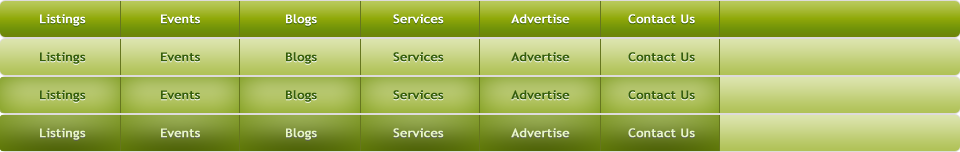
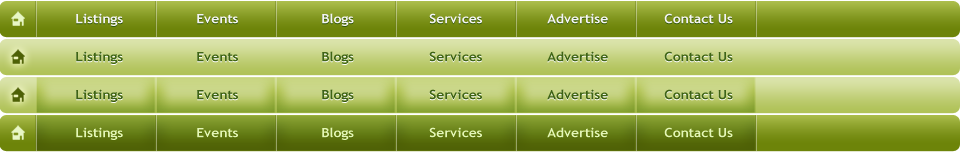
modified files and looks

diff --git a/cebudir/css/main.css b/cebudir/css/main.css
@@ -82,7 +82,7 @@ h6 { font-size: 10px; }
 }
 #footer-urls li { float: right; margin-left: 20px; }
 #footer-urls li a { font-size: 13px; font-weight: lighter; }
-
+/*
 #home {
 	height: 29px; width: 35px;
 	margin-left: 6px;
@@ -96,11 +96,33 @@ h6 { font-size: 10px; }
 #home:hover {
 	background: url(../images/home-sel.gif) top center no-repeat;
 	border: 1px solid #97ab40;
-}
+}*/
 ul#sitemaps { padding: 10px 0px; }
 ul#sitemaps li { 
 	width: 18%; float: left; float: left; padding-left: 10px; 
 }
+/*** SEARCH ***/
+#search { margin-top: 10px; text-align: left; }
+#searchb {
+	background: url(../images/search.png) left top no-repeat;
+	height: 25px; width: 425px;
+	border: 1px solid #CCCCCC;
+	border-right: none;
+	font-size: 13px;
+	text-indent: 5px;
+	color: #666;
+}
+#searchb:focus { background: url(../images/search.png) left bottom no-repeat; }
+#searchb_field { margin-top: 0px; width: 370px; background: none; border: none; color: #999999; }
+#searchsub {
+	background: url(../images/search.png) right top no-repeat;
+	width: 50px; height: 25px;
+	border: none;
+	border-right: 1px solid #CCCCCC;
+	padding: 0px;
+}
+#searchsub:active { background: url(../images/search.png) right bottom no-repeat; }
+
 /***  CD-CONTENT ***/
 #cd-content h1, #cd-content h2 { color: #6D8309; }
 #cd-content h3, #cd-content h4,
@@ -235,33 +257,36 @@ ul#sitemaps li {
 #cd-navigation ul li a { display: block; border: none; height: 38px; width: 120px; }
 
 /** NAVIGATION ITEMS **/
-#listing  { background: url(../images/navmenu.png) 0px 0 no-repeat; }
-#event    { background: url(../images/navmenu.png) -120px 0 no-repeat; }
-#blog     { background: url(../images/navmenu.png) -240px 0 no-repeat; }
-#services { background: url(../images/navmenu.png) -360px 0 no-repeat; }
-#advertise{ background: url(../images/navmenu.png) -480px 0 no-repeat; }
-#contact  { background: url(../images/navmenu.png) -600px 0 no-repeat; }
+#home     { background: url(../images/navmenu.png) 0px 0 no-repeat; width: 36px; }
+#listing  { background: url(../images/navmenu.png) -36px 0 no-repeat; }
+#event    { background: url(../images/navmenu.png) -156px 0 no-repeat; }
+#blog     { background: url(../images/navmenu.png) -276px 0 no-repeat; }
+#services { background: url(../images/navmenu.png) -396px 0 no-repeat; }
+#advertise{ background: url(../images/navmenu.png) -516px 0 no-repeat; }
+#contact  { background: url(../images/navmenu.png) -636px 0 no-repeat; }
 /** HOVER STATE **/
-#listing:hover  { background: url(../images/navmenu.png) 0px -38px no-repeat; }
-#event:hover    { background: url(../images/navmenu.png) -120px -38px no-repeat; }
-#blog:hover     { background: url(../images/navmenu.png) -240px -38px no-repeat; }
-#services:hover { background: url(../images/navmenu.png) -360px -38px no-repeat; }
-#advertise:hover{ background: url(../images/navmenu.png) -480px -38px no-repeat; }
-#contact:hover  { background: url(../images/navmenu.png) -600px -38px no-repeat; }
+#home:hover     { background: url(../images/navmenu.png) 0px -38px no-repeat; }
+#listing:hover  { background: url(../images/navmenu.png) -36px -38px no-repeat; }
+#event:hover    { background: url(../images/navmenu.png) -156px -38px no-repeat; }
+#blog:hover     { background: url(../images/navmenu.png) -276px -38px no-repeat; }
+#services:hover { background: url(../images/navmenu.png) -396px -38px no-repeat; }
+#advertise:hover{ background: url(../images/navmenu.png) -516px -38px no-repeat; }
+#contact:hover  { background: url(../images/navmenu.png) -636px -38px no-repeat; }
 /** ACTIVE STATE **/
-#listing:active  { background: url(../images/navmenu.png) 1px -76px no-repeat; }
-#event:active    { background: url(../images/navmenu.png) -120px -76px no-repeat; }
-#blog:active     { background: url(../images/navmenu.png) -240px -76px no-repeat; }
-#services:active { background: url(../images/navmenu.png) -360px -76px no-repeat; }
-#advertise:active{ background: url(../images/navmenu.png) -480px -76px no-repeat; }
-#contact:active  { background: url(../images/navmenu.png) -600px -76px no-repeat; }
+#home:active     { background: url(../images/navmenu.png) 0px -76px no-repeat; }
+#listing:active  { background: url(../images/navmenu.png) -36px -76px no-repeat; }
+#event:active    { background: url(../images/navmenu.png) -156px -76px no-repeat; }
+#blog:active     { background: url(../images/navmenu.png) -276px -76px no-repeat; }
+#services:active { background: url(../images/navmenu.png) -396px -76px no-repeat; }
+#advertise:active{ background: url(../images/navmenu.png) -516px -76px no-repeat; }
+#contact:active  { background: url(../images/navmenu.png) -636px -76px no-repeat; }
 /** ACTIVE STATE **/
-#listing-sel  { background: url(../images/navmenu.png) 1px -114px no-repeat; width: 120px; }
-#event-sel    { background: url(../images/navmenu.png) -120px -114px no-repeat; }
-#blog-sel     { background: url(../images/navmenu.png) -240px -114px no-repeat; }
-#services-sel { background: url(../images/navmenu.png) -360px -114px no-repeat; }
-#advertise-sel{ background: url(../images/navmenu.png) -480px -114px no-repeat; }
-#contact-sel  { background: url(../images/navmenu.png) -600px -114px no-repeat; }
+#listing-sel  { background: url(../images/navmenu.png) -36px -114px no-repeat; width: 120px; }
+#event-sel    { background: url(../images/navmenu.png) -156px -114px no-repeat; }
+#blog-sel     { background: url(../images/navmenu.png) -276px -114px no-repeat; }
+#services-sel { background: url(../images/navmenu.png) -396px -114px no-repeat; }
+#advertise-sel{ background: url(../images/navmenu.png) -516px -114px no-repeat; }
+#contact-sel  { background: url(../images/navmenu.png) -636px -114px no-repeat; }
 
 #categories {
 	border-top:2px solid #dcdcdc; 
@@ -307,9 +332,9 @@ ul#sitemaps li {
 	text-transform:uppercase; 
 	font-size: 8px; 
 	font-weight: bold; 
-	font-family: Arial, Helvetica, sans-serif; 
+	/*font-family: Arial, Helvetica, sans-serif; */
 	padding: 2px 5px;
-	letter-spacing: .5px;
+	/*letter-spacing: .5px;*/
 }
 .listing-category a:hover { color: #FFFFFF; }
 

diff --git a/cebudir/application/views/cebudirectories/advertising.php b/cebudir/application/views/cebudirectories/advertising.php
@@ -3,16 +3,16 @@
 <h5 style="padding-left: 0px;">Sponsored</h5>
 
 <div id="ads">
-    <h5><a href="">Cheap, Fast and Reliable Web Hosting</a></h5>
+    <h5><a href="http://hostfortes.com/" title="HostFortes - Your Hosting Buddy!">Cheap, Fast and Reliable Web Hosting</a></h5>
     <span> <?php echo substr("Cheap, fast and reliable web hosting
 	Price-optimized web hosting plan with large 
-    disk space and technical support", 0, 105); ?>... <a href="">more</a></span>
+    disk space and technical support", 0, 105); ?>... <a href="http://hostfortes.com/" title="HostFortes - Your Hosting Buddy!">more</a></span>
     <div class="divider"></div>
     
-    <h5><a href="">Destination Specialists Cebu Inc.</a></h5>
+    <h5><a href="<?php echo url::base(); ?>destination-specialists-cebu-inc" title="Destination Specialists Cebu Inc.">Destination Specialists Cebu Inc.</a></h5>
     <span><?php echo substr("Is your passport expiring?? Avoid the rush, renew it 
     now. Takes about 15 -20 working days to renew the passport. 
-    By april 2010 the green passport will no longer be acceptable.", 0, 105); ?>... <a href="">more</a></span>
+    By april 2010 the green passport will no longer be acceptable.", 0, 105); ?>... <a href="<?php echo url::base(); ?>destination-specialists-cebu-inc" title="Destination Specialists Cebu Inc.">more</a></span>
     <div class="divider"></div>
 </div>
 

diff --git a/cebudir/application/views/cebudirectories/header.php b/cebudir/application/views/cebudirectories/header.php
@@ -57,10 +57,14 @@
 <div id="cd-wrapper">
 
 	<div id="cd-header">
-    	<div id="logo" style="cursor:pointer" onclick="location.href='<?php echo url::base(); ?>'"><a href="<?php echo url::base(); ?>" title="Home"><div id="home"></div></a></div>
-    
+       	 
+        <div style="margin-top: 10px;">
+        	<img src="<?php echo url::base(); ?>images/logo.png" alt="Cebu Directories Home Page" title="Cebu Directories" />
+        </div>
+        
         <div id="cd-navigation">
         	<ul>
+            	<li id="home"><a href="<?php echo url::base(); ?>" title="Cebu Directories Home"></a></li>
             	<li id="listing<?php echo (isset($menu) && $menu == 'listing') ? "-sel" : ""; ?>"><a href="<?php echo url::base(); ?>listings"></a></li>
                 <li id="event"<?php echo (isset($menu) && $menu == 'event') ? "-sel" : ""; ?>><a href="<?php echo url::base(); ?>events"></a></li>
                 <li id="blog"><a href="<?php echo url::base(); ?>blog"></a></li>
@@ -76,3 +80,5 @@
 		}
 		?>
     </div>
+
+	<?php //require_once(APPPATH . '/views/cebudirectories/search.php'); ?>
